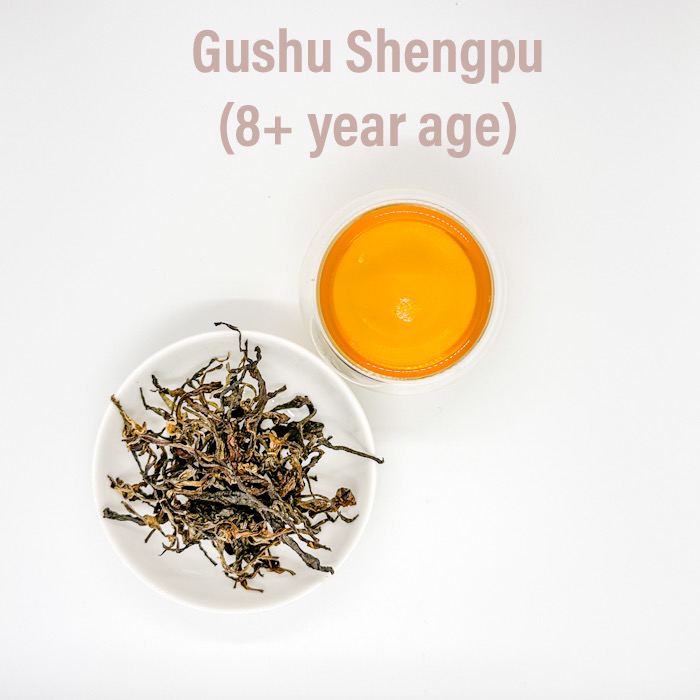
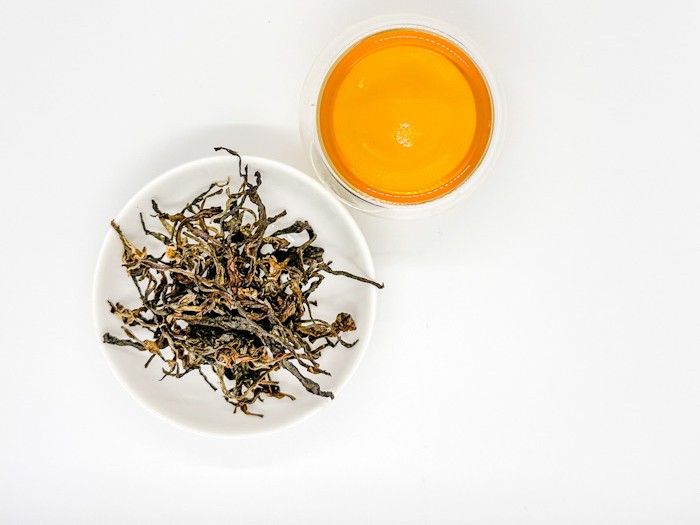
Redesign tea cards: show image and text together instead of hover-to-reveal
- Crop text out of all 15 tea product images
- Stack image on top with text below (always visible)
- Remove hover fade-in/fade-out behavior
- 3 columns on desktop, 2 columns on mobile
- Remove unused CSS gradient overlay

Changed region(s): [[0.12, 0.0305, 0.78, 0.8838]]

diff --git a/index.html b/index.html
@@ -186,7 +186,6 @@ body.thai .lang-en-inline{display:none}
 .story-block{grid-template-columns:1fr}
 .story-block.reverse .story-block-img{order:0}
 .about-editorial{grid-template-columns:1fr;gap:24px}
-.tea-grid{grid-template-columns:1fr}
 .produce-card{grid-template-columns:1fr}
 .produce-card.reverse .produce-card-img{order:0}
 .event-block{grid-template-columns:1fr}
@@ -289,18 +288,16 @@ body.thai .lang-en-inline{display:none}
 .about-images{display:flex;flex-direction:column;gap:16px}
 .about-text{padding-top:8px}
 .tea-grid{display:grid;grid-template-columns:repeat(3,1fr);gap:16px}
-.tea-item{position:relative;border:1px solid var(--border);border-radius:6px;padding:20px;cursor:default;overflow:hidden;min-height:160px;display:flex;flex-direction:column;justify-content:center;transition:border-color 0.2s}
+.tea-item{border:1px solid var(--border);border-radius:6px;overflow:hidden;display:flex;flex-direction:column;transition:border-color 0.2s}
 .tea-item:hover{border-color:var(--terra)}
-.tea-item-text{position:relative;z-index:1;transition:opacity 0.25s}
+.tea-item-img{overflow:hidden}
+.tea-item-img img{width:100%;aspect-ratio:4/3;object-fit:cover;display:block}
+.tea-item-text{padding:16px 20px 20px}
 .tea-item-type{font-size:10px;letter-spacing:0.1em;text-transform:uppercase;color:var(--terra);margin-bottom:4px;font-weight:500}
 .tea-item-name{font-family:'EB Garamond',serif;font-size:19px;font-weight:400;margin-bottom:6px}
 .tea-item-note{font-size:13px;color:var(--text3);line-height:1.5;font-style:italic}
 .tea-item-tag{display:inline-block;font-size:9px;letter-spacing:0.08em;text-transform:uppercase;background:var(--terra-bg);color:var(--terra);padding:2px 8px;border-radius:3px;margin-bottom:6px;font-weight:500}
-.tea-item-img{position:absolute;inset:0;opacity:0;transition:opacity 0.3s;z-index:2;border-radius:5px;overflow:hidden}
-.tea-item-img img{width:100%;height:100%;object-fit:cover}
-.tea-item-img::before{content:'';position:absolute;top:0;left:0;right:0;height:55%;background:linear-gradient(to bottom,#fff 35%,rgba(255,255,255,0.9) 55%,transparent);z-index:1;pointer-events:none}
-.tea-item:hover .tea-item-img{opacity:1}
-.tea-item:hover .tea-item-text{opacity:0}
+@media(max-width:680px){.tea-grid{grid-template-columns:repeat(2,1fr)}}
 .produce-grid{display:flex;flex-direction:column;gap:48px}
 .produce-card{display:grid;grid-template-columns:1fr 1fr;gap:32px;align-items:center}
 .produce-card.reverse .produce-card-img{order:1}
